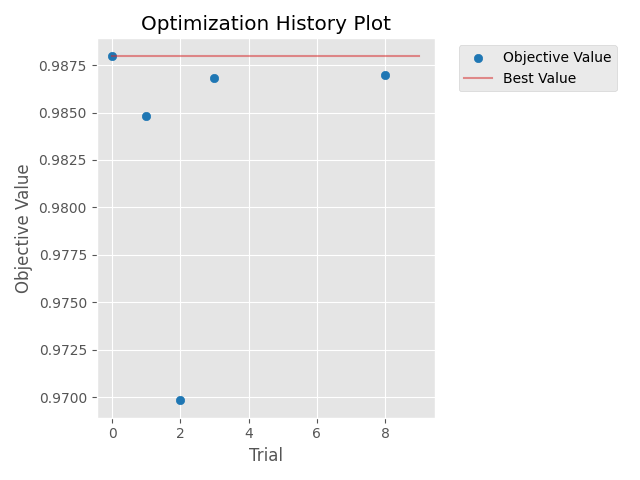
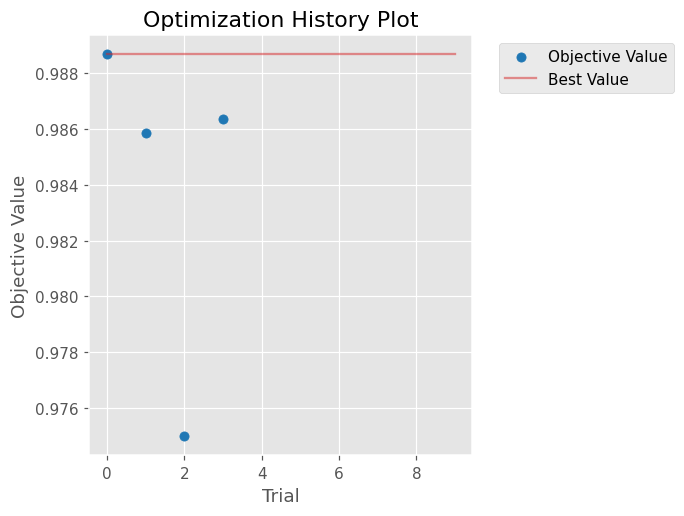
writing: clearer Optuna parallel-coordinate chart + honest importance caveat
Regenerate the conv_net search plots from a consistent study with the new
custom parallel-coordinate plot, and update captions/numbers to match (incl.
noting fANOVA importances are noisy at this trial count).

diff --git a/_writing/mnist-mlflow.md b/_writing/mnist-mlflow.md
@@ -82,27 +82,34 @@ Optuna then hands you a few plots for free. For the `conv_net` study:
 
 <figure>
   <img src="/assets/mnist/optuna_history_conv_net.png" alt="Optuna optimization history for conv_net">
-  <figcaption>Optimization history — each dot is a completed trial; the line is the best value so far. Only 5 dots show because the other 5 trials were pruned (see below).</figcaption>
+  <figcaption>Optimization history — each dot is a completed trial; the line is the best value so far. Only 4 dots show because the other 6 trials were pruned (see below).</figcaption>
 </figure>
 
 <figure class="narrow">
   <img src="/assets/mnist/optuna_param_importances_conv_net.png" alt="Optuna hyperparameter importances for conv_net">
-  <figcaption>Which hyperparameter mattered most. For my conv net, <code>dropout</code> dominated (0.50), then <code>conv_channels</code> (0.29), then <code>lr</code> (0.21).</figcaption>
+  <figcaption>Optuna's fANOVA importance — but with only 4 completed trials it's noisy: here <code>dropout</code> and <code>conv_channels</code> tie (~0.36) and <code>lr</code> trails (0.28), and the ranking wobbles if you rerun it.</figcaption>
 </figure>
 
 <figure>
   <img src="/assets/mnist/optuna_parallel_coordinate_conv_net.png" alt="Optuna parallel coordinate plot for conv_net">
-  <figcaption>Parallel coordinates — darker lines are better trials. The good ones run through wider conv channels (64) and lower dropout; <code>conv_channels=16</code> is the line that bottoms out at ~0.97.</figcaption>
+  <figcaption>Parallel coordinates — line colour is val accuracy (viridis), and the best trial is the bold red line. The winner runs <code>conv_channels=16</code> with low dropout and a mid learning rate; the same <code>conv_channels=16</code> with too small a learning rate is the dark line that bottoms out at ~0.975.</figcaption>
 </figure>
 
-I'd assumed learning rate would dominate, but for this tiny conv net the regularization matters more.
+The parallel-coordinate plot is the one I actually trust here: the two
+`conv_channels=16` trials differ mostly in learning rate and span 0.975 → 0.989,
+so width and learning rate clearly swing the result. The fANOVA importance plot
+is shakier — with only four completed trials its ranking wobbles between runs,
+a good reminder that importances need many more trials to mean much. (I also
+swapped in my own parallel-coordinate plot: Optuna's default colours every line
+in near-identical shades of blue, so when all trials score ~0.98 you can't tell
+them apart.)
 
 ### Pruning
 
 A naïve search trains every trial to the end, even the obviously bad ones. Optuna's
 **MedianPruner** fixes that: each trial reports its validation accuracy after every
 epoch, and if it's trailing the median of past trials at the same epoch, the trial
-is stopped early. In the run above, **5 of 10 trials were pruned** — roughly half
+is stopped early. In the run above, **6 of 10 trials were pruned** — well over half
 the search budget saved.
 
 In MLflow a pruned trial ends as a `KILLED` run tagged `pruned=true` (not `FAILED`).
